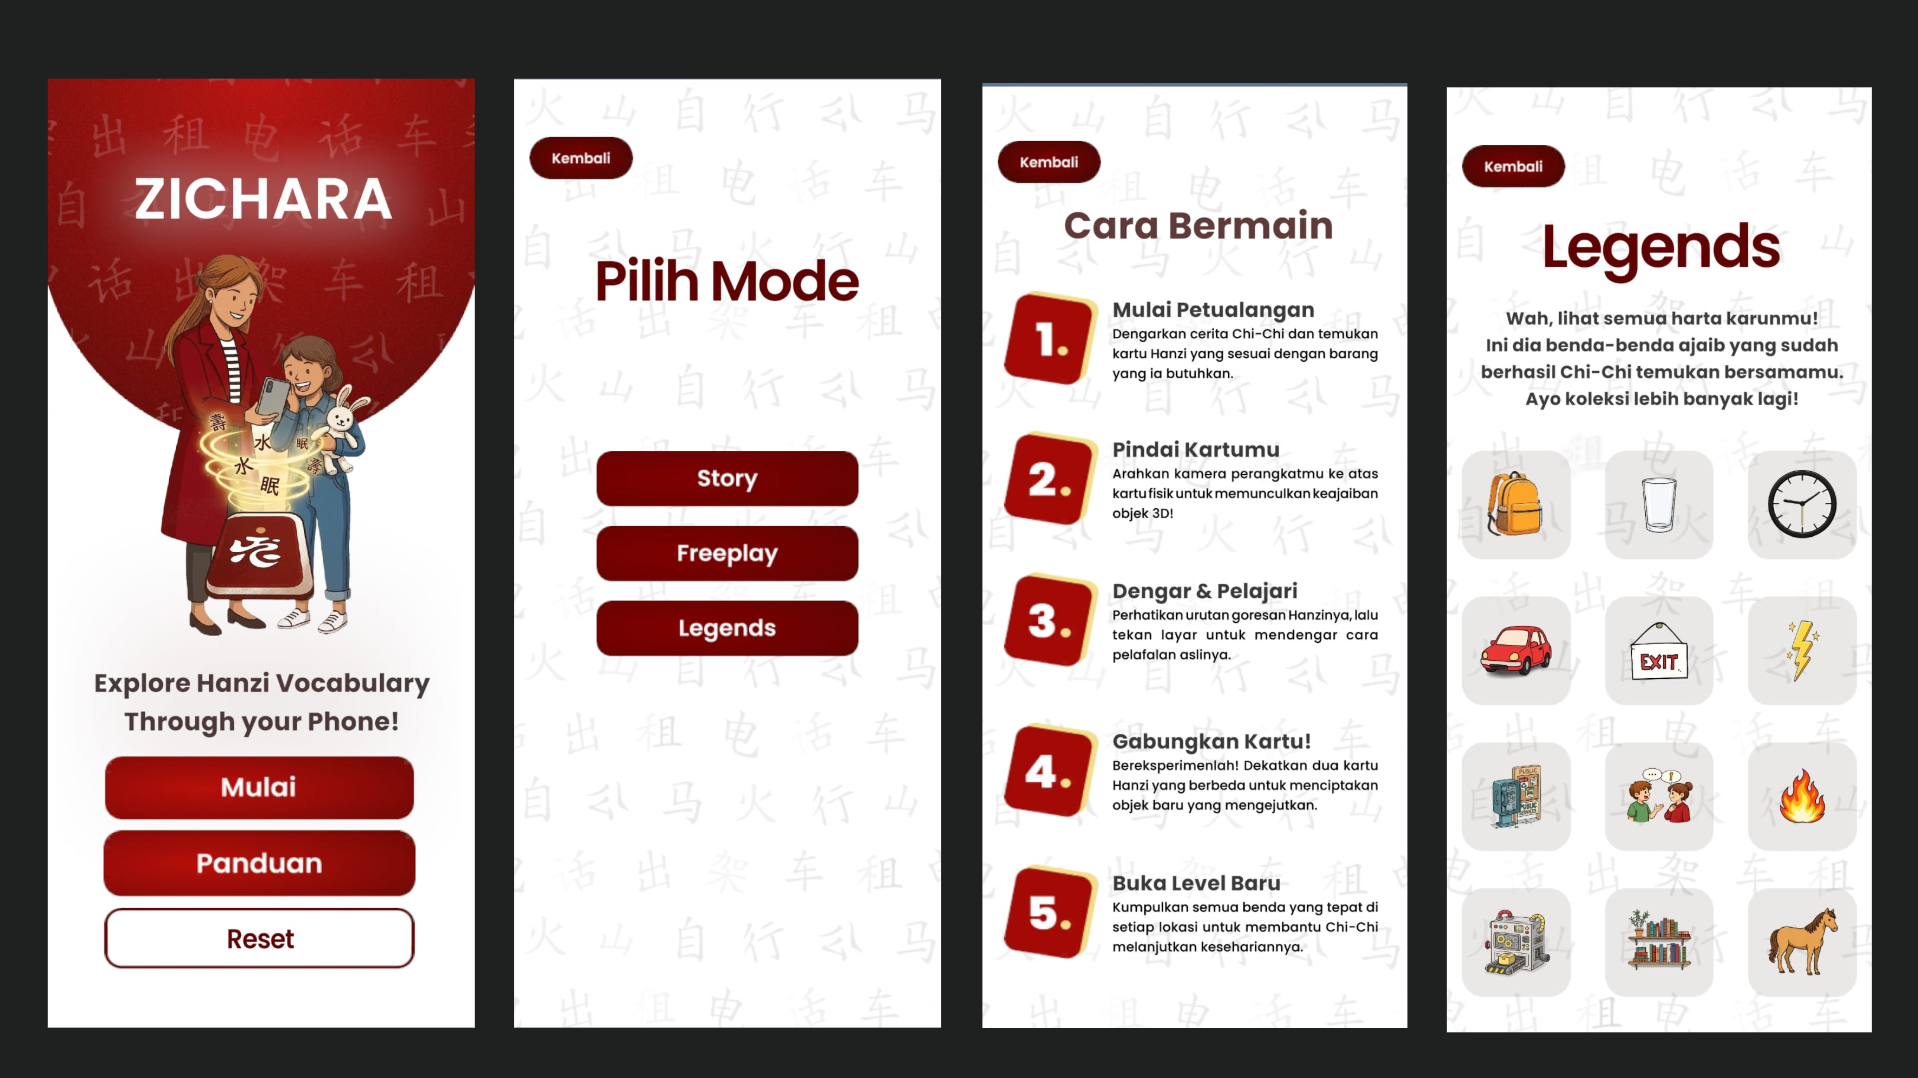
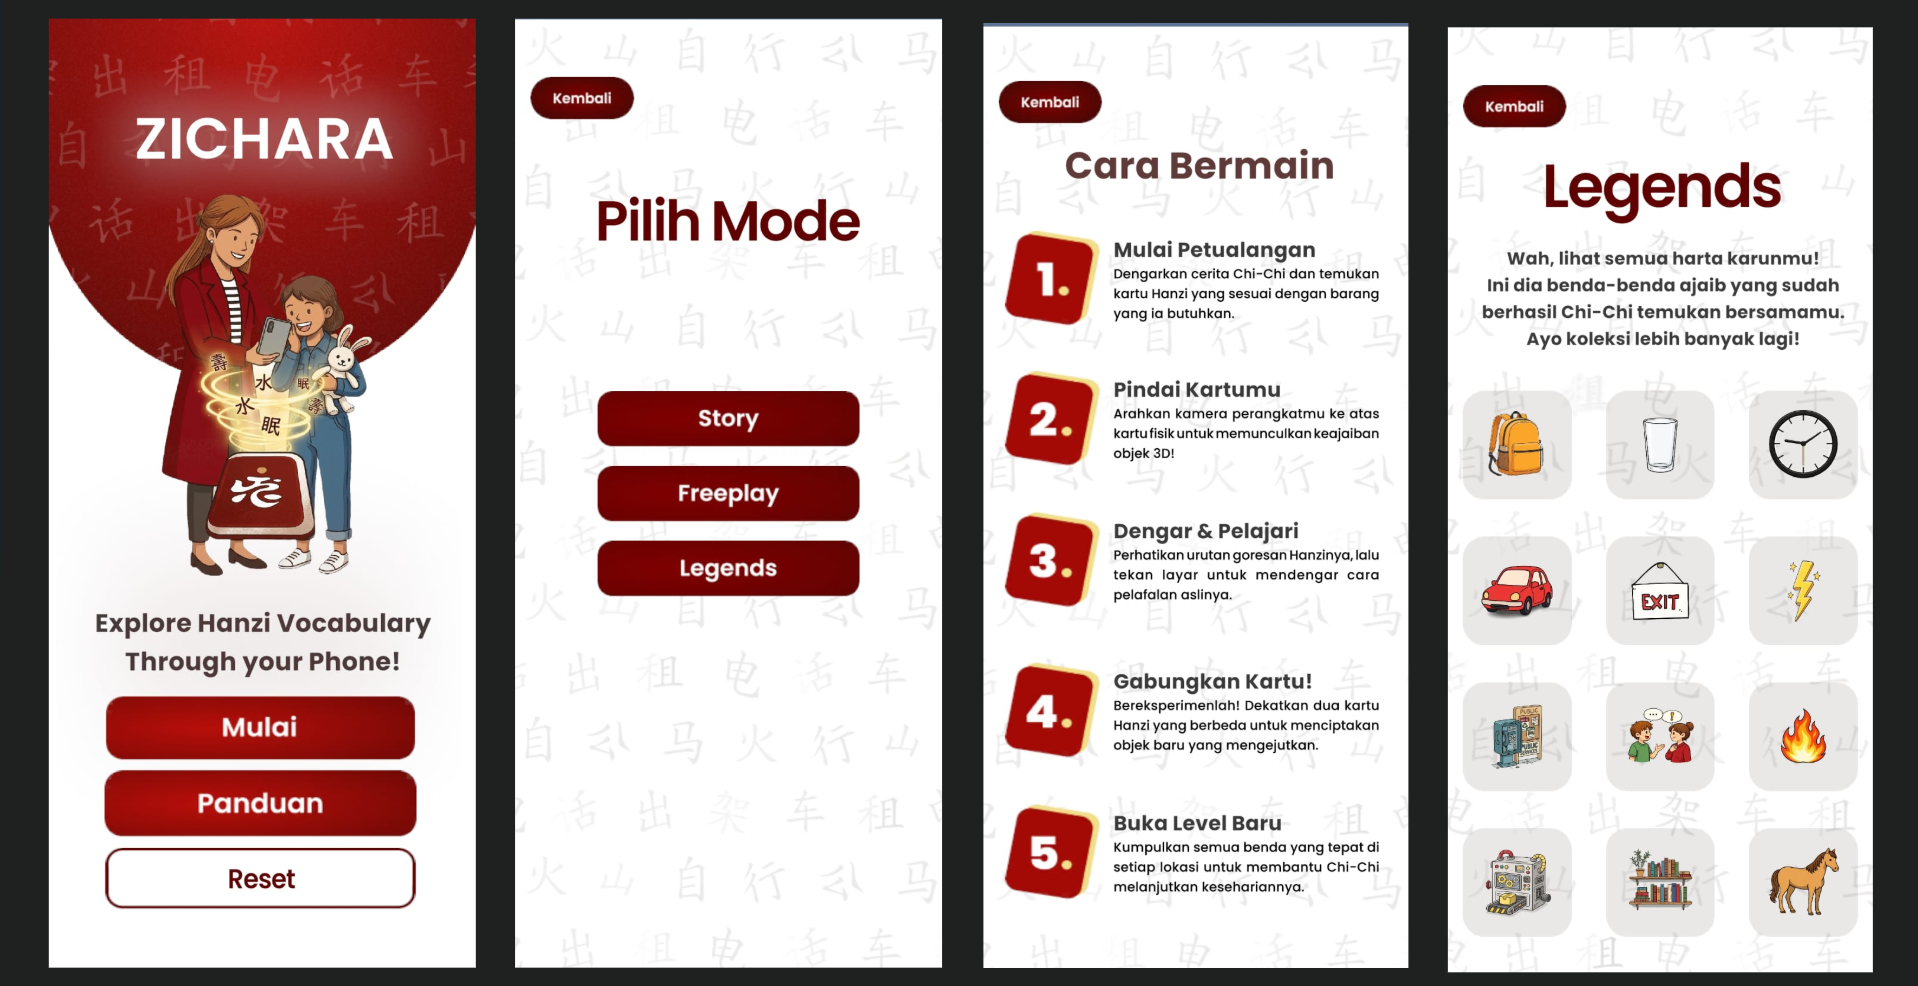
update

diff --git a/components/Experience.jsx b/components/Experience.jsx
@@ -11,11 +11,29 @@ const experiences = [
   {
     title: "Associates of a website",
     organization: "TEDx Padjadjaran University - Website Division (UI/UX Designer)",
-    year: "2026",
+    year: "2026 -  Now",
     image: "/journey/tedx.jpeg",
-    certificate: "/certificate/ifest2025.jpg",
+    certificate: "/journey/tedx.jpeg",
     description:
       "Contributed to the design of TEDxUniversitasPadjadjaran's digital platform by creating intuitive user interfaces and improving user experience. Worked closely with team members to transform ideas into accessible and visually engaging web experiences.",
+  },
+  {
+    title: "Teaching Assistant - Algorithm Analysis",
+    organization: "Computer Science Study Program, Universitas Padjadjaran",
+    year: "2026 - Now",
+    image: "/journey/analgo1.png",
+    certificate: "/journey/analgo2.png",
+    description:
+      "Guided students in learning algorithm design and analysis, including time and space complexity, divide and conquer, greedy algorithms, dynamic programming, and graph algorithms. Facilitated practical sessions, assisted problem solving activities, and helped students develop computational thinking skills.",
+  },
+  {
+    title: "Teaching Assistant - Database Systems II",
+    organization: "Computer Science Study Program, Universitas Padjadjaran",
+    year: "2025",
+    image: "/journey/sisdat1.png",
+    certificate: "/journey/sisdat1.png",
+    description:
+      "Assisted students in understanding advanced database concepts, SQL implementation, database design, normalization, and database management systems. Provided guidance during practical sessions, evaluated assignments, and supported students in solving technical challenges.",
   },
   {
     title: "Department External Relations Staff at HIMATIF",
@@ -35,42 +53,42 @@ const experiences = [
     description:
       "Assisted new students throughout the university orientation program by providing guidance, facilitating group activities, and fostering an inclusive and supportive learning environment during the transition to university life.",
   },
-  {
-    title: "Head of Public Relation Division - IFest 2024",
-    organization: "IFest UNPAD",
-    year: "2024",
-    image: "/journey/ifest1.jpg",
-    certificate: "/certificate/ifest24.png",
-    description:
-      "Led the Public Relations Division in managing external communications, partnerships, and promotional strategies. Coordinated team members, built relationships with sponsors and media partners, and ensured effective dissemination of information to support the success of the event.",
-  },
-  {
-    title: "Vice Head of Public Relation Division - IFest 2025",
-    organization: "IFest UNPAD",
-    year: "2025",
-    image: "/journey/ifest25.png",
-    certificate: "/certificate/ifest25.jpg",
-    description:
-      "Led the Public Relations Division in managing external communications, partnerships, and promotional strategies. Coordinated team members, built relationships with sponsors and media partners, and ensured effective dissemination of information to support the success of the event.",
-  },
-  {
-    title: "Head of Comparative Study Committee yg UI 2025",
-    organization: "HIMATIF UNPAD",
-    year: "2025",
-    image: "/journey/pacil.jpg",
-    certificate: "/certificate/ifest2025.jpg",
-    description:
-      "Led the planning and execution of a comparative study program, coordinating communication with partner institutions and managing committee operations to ensure a productive and meaningful exchange of knowledge and organizational practices.",
-  },
-  {
-    title: "Head of Comparative Study Committee 2025",
-    organization: "HIMATIF UNPAD",
-    year: "2025",
-    image: "/journey/hmsi.jpg",
-    certificate: "/certificate/ifest2025.jpg",
-    description:
-      "Led the planning and execution of a comparative study program, coordinating communication with partner institutions and managing committee operations to ensure a productive and meaningful exchange of knowledge and organizational practices.",
-  },
+  // {
+  //   title: "Head of Public Relation Division - IFest 2024",
+  //   organization: "IFest UNPAD",
+  //   year: "2024",
+  //   image: "/journey/ifest1.jpg",
+  //   certificate: "/certificate/ifest24.png",
+  //   description:
+  //     "Led the Public Relations Division in managing external communications, partnerships, and promotional strategies. Coordinated team members, built relationships with sponsors and media partners, and ensured effective dissemination of information to support the success of the event.",
+  // },
+  // {
+  //   title: "Vice Head of Public Relation Division - IFest 2025",
+  //   organization: "IFest UNPAD",
+  //   year: "2025",
+  //   image: "/journey/ifest25.png",
+  //   certificate: "/certificate/ifest25.jpg",
+  //   description:
+  //     "Led the Public Relations Division in managing external communications, partnerships, and promotional strategies. Coordinated team members, built relationships with sponsors and media partners, and ensured effective dissemination of information to support the success of the event.",
+  // },
+  // {
+  //   title: "Head of Comparative Study Committee yg UI 2025",
+  //   organization: "HIMATIF UNPAD",
+  //   year: "2025",
+  //   image: "/journey/pacil.jpg",
+  //   certificate: "/certificate/ifest2025.jpg",
+  //   description:
+  //     "Led the planning and execution of a comparative study program, coordinating communication with partner institutions and managing committee operations to ensure a productive and meaningful exchange of knowledge and organizational practices.",
+  // },
+  // {
+  //   title: "Head of Comparative Study Committee 2025",
+  //   organization: "HIMATIF UNPAD",
+  //   year: "2025",
+  //   image: "/journey/hmsi.jpg",
+  //   certificate: "/certificate/ifest2025.jpg",
+  //   description:
+  //     "Led the planning and execution of a comparative study program, coordinating communication with partner institutions and managing committee operations to ensure a productive and meaningful exchange of knowledge and organizational practices.",
+  // },
   {
     title: "Decoration Staff - Bandros Gamaban Bandung 2025",
     organization: "Bandros Gamaban Bandung",
@@ -94,7 +112,7 @@ const experiences = [
     organization: "HIMATIF UNPAD",
     year: "2024",
     image: "/journey/dekor.png",
-    certificate: "/certificate/ifest2025.jpg",
+    certificate: "/journey/dekor.png",
     description:
       "Designed and prepared event decorations that aligned with the event theme and atmosphere. Collaborated with team members to create engaging visual environments and enhance participant experiences.",
   },

diff --git a/data/projects.js b/data/projects.js
@@ -85,4 +85,15 @@ export const projects = [
     images: ["/projects/neo1.png", "/projects/neo2.png", "/projects/neo3.png", "/projects/neo4.png"],
     link: "https://github.com/senianh/computer-graphics-project.git",
   },
+  {
+    id: 10,
+    title: "Book Review",
+    description:
+      "A web-based book review platform designed for book enthusiasts to discover, share, and discuss book recommendations. Users can register accounts, add books, write reviews, and interact with other readers through comments and discussions.",
+    role: "Full-Stack Developer",
+    tags: ["PHP", "MySQL", "Bootstrap"],
+    icon: "📚",
+    images: ["/projects/book1.png", "/projects/book2.png","/projects/book3.png","/projects/book4.png"],
+    link: "#",
+  }
 ];

diff --git a/app/layout.jsx b/app/layout.jsx
@@ -9,7 +9,7 @@ export default function RootLayout({ children }) {
   return (
     <html lang="en">
       <head>
-        <link href="https://fonts.googleapis.com/css2?family=Dancing+Script:wght@600&display=swap" rel="stylesheet" />
+        <link href="https://fonts.googleapis.com/css2?family=Dancing+Script:wght@600&family=Poppins:wght@300;400;500;600;700&display=swap" rel="stylesheet" />
       </head>
       <body>{children}</body>
     </html>

diff --git a/app/globals.css b/app/globals.css
@@ -13,7 +13,7 @@ html {
 body {
   background: #0c0c0c;
   color: white;
-  font-family: 'Space Grotesk', sans-serif;
+  font-family: 'Poppins', sans-serif;
 }
 
 .fade {
